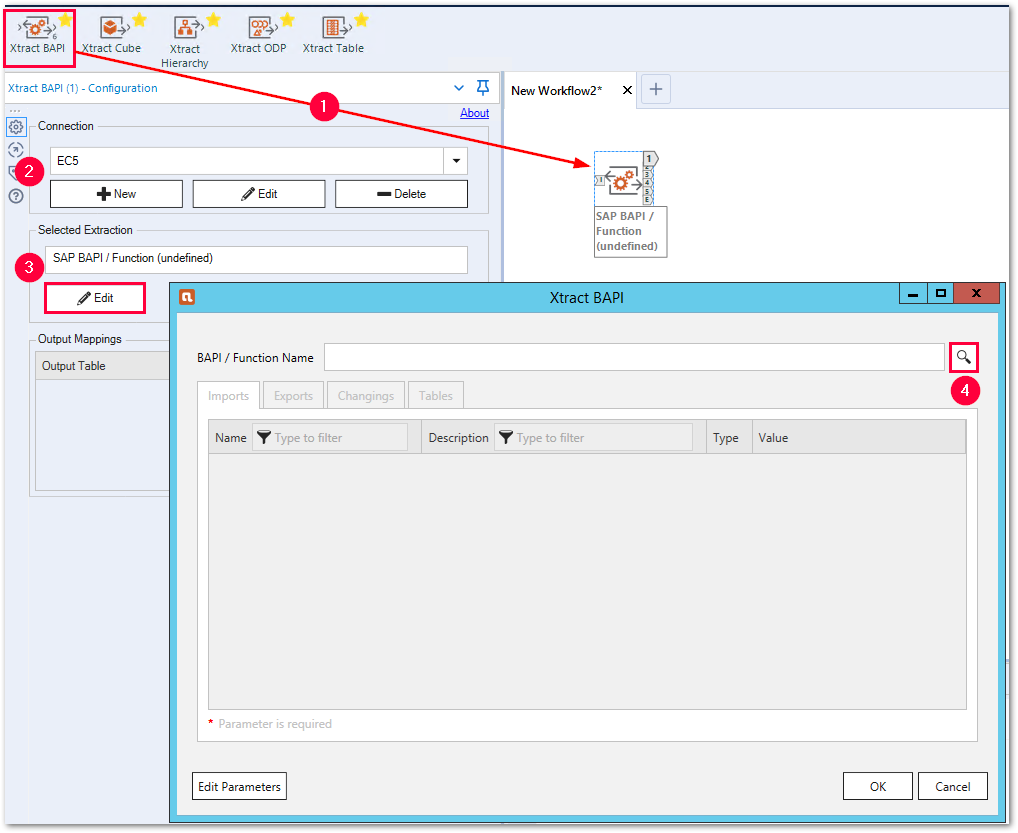
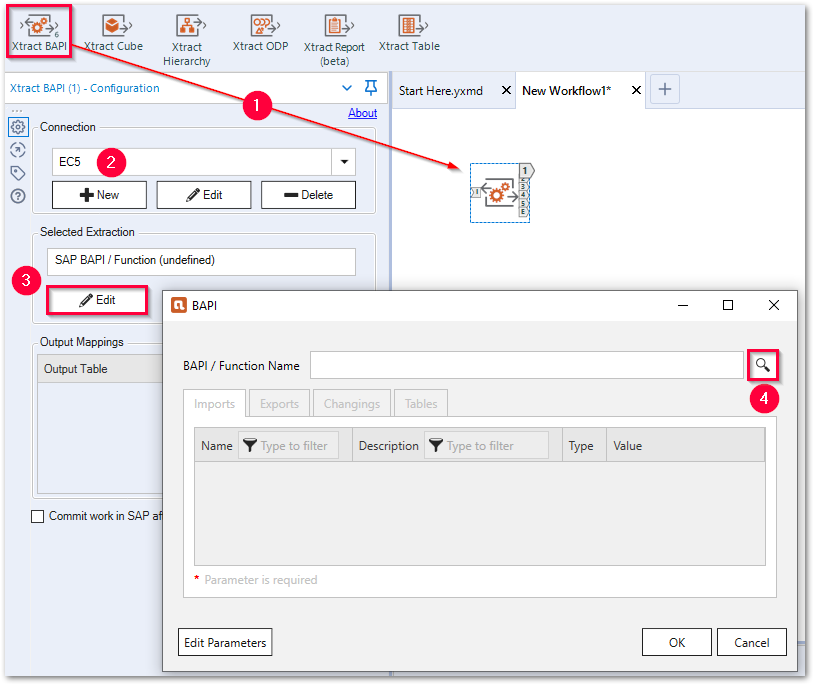
XfA

Changed region(s): [[0.0, 0.0, 1.0, 1.0]]

diff --git a/content/_en/xtract-for-alteryx/bapi/parameters.md b/content/_en/xtract-for-alteryx/bapi/parameters.md
@@ -1,78 +1,13 @@
 ---
 ref: xfa-bapi-param
 layout: page
-title: BAPI Parameters
-description: BAPI Parameters
+title: Parameters
+description: Parameters
 product: xtract-for-alteryx
 parent: bapi
 permalink: /:collection/:path
 weight: 2
 lang: en_GB
 ---
-### Parameter Types
-There are four parameter types of BAPIs: 
-- Imports
-- Exports
-- Changings
-- Tables
 
-![BAPI-Parameters](/img/content/xfa/BAPI-Parameters.png){:class="img-responsive"}
-
-All value fields marked with * are required fields and must be filled.
-
-Each Import, Export and Changings parameter can have one of the following representations:
-- a scalar field (e.g., characters, date, time, number, amount etc.)
-- a structure consisting of several components
-- a table - an array of structures of the same type
-
-{: .box-note }
-**Note:** See section [Setting Input and Output Values](./input-output-values) for more details.
-
-#### Structures
-
-A structure is a component of data objects of any data type with a set of keys. Each key has a single associated value.
-
-Structures are named as follows, depending on the data object type:
-- Flat structures contain components with elementary data types (e.g., char, integer, float) and assume scalar values.
-- Nested structures contain at least one substructure. All components and sub-components are flat.
-- Deep structures contain at least one deep component, such as table, at any nesting level.
-
-![Bapi-Structures](/img/content/xfa/BAPI-structure.png){:class="img-responsive"}
-
-
-### Imports
-**Imports** represent the input values sent from the client to SAP. Within the tab **Imports** you can define import parameters that can be presented as scalar values or structures. 
-![BAPI import parameters](/img/content/xfa/bapi_import1.png){:class="img-responsive"}
-To use the filtering function, enter text in the headers of the columns **Name** and **Description**. <br>
-
-
-### Exports
-**Exports** represent the output values sent from SAP back to the client after execution of a function module.
-Within the tab **Exports** you can define export parameters that can be presented as scalar values or structures. You can select an **Export** for an output by marking the checkbox in the output column. 
-![BAPI export parameters](/img/content/xfa/bapi_export.png){:class="img-responsive"}
-To use the filtering function, enter text in the headers of the columns **Name** and **Description**. <br>
-
- 
-### Changings
-**Changings** represents parameters that can be used for input and output. 
-Within the tab **Changing** you can define import and export parameters. Changing combines importing and exporting functions.
-
-
-### Tables
-
-**Tables** contain parameters in a table structure consisting of multiple rows. Tables can be used for input and output.
-
-Within the tab **Tables** you can define table parameters for importing and exporting into and from an SAP BAPI. Tables, in this case, represent a structure of multiple rows of the same data type.
-![BAPI table](/img/content/xfa/bapi_table.png){:class="img-responsive"}
-To use the filtering function, enter text in the headers of the columns **Name** and **Description**. <br>
-
-#### Navigating in the Tables tab
-
-{: .box-note }
-**Note:** Only **five** tables are available for parallel exporting.
-
-1. Mark the checkbox in the output column (1) to determine the table used for output.<br> 
-2. Drop-down lists (2) in the column value show the defined tables in your Alteryx workflow that can be used as an input table (see [Setting an input value](./input-output-values)). <br>
-3. Click **[X]** (3) to clear the values. <br> 
-4. Click **Search** (glasses symbol) (4) to display the metadata of the selected table including the name and the data type of all fields.
-![BAPI meta-data](/img/content/xfa/bapi_table_sap_fields.png){:class="img-responsive"}
+{% include _content/en/bapis-and-function-modules/parameters.md %}

diff --git a/content/_de/xtract-for-alteryx/bapis-und-funktionsbausteine/eine-bapi-quelle-definieren.md b/content/_de/xtract-for-alteryx/bapis-und-funktionsbausteine/eine-bapi-quelle-definieren.md
@@ -17,11 +17,35 @@ old_url: /Xtract-Universal-DE/default.aspx?pageid=eine-bapi-quelle-definieren
 ![BAPI component](/img/content/xfa/Define-bapi-component.png){:class="img-responsive"}
 
 ### Eine BAPI Extraktion finden
-4. Suchen nach **BAPI / Function Name** über das **[Lupensymbol]** (4). Sie können Platzhalter verwenden (*), wenn gewünscht. Das Fenster "Function Module Lookup" öffnet sich.
-5. Durch Eingabe eines Suchnamens in das Feld **BAPI / Function Name**, können Sie die Suche einschränken. Starten Sie die Suche duch klicken auf das **[Lupensymbol]** (5). Sie können Platzhalter verwenden (*), wenn gewünscht.<br>
+1. Suchen nach **BAPI / Function Name** über das **[Lupensymbol]** (4). Sie können Platzhalter verwenden (*), wenn gewünscht. Das Fenster "Function Module Lookup" öffnet sich.
+2. Durch Eingabe eines Suchnamens in das Feld **BAPI / Function Name**, können Sie die Suche einschränken. Starten Sie die Suche duch klicken auf das **[Lupensymbol]** (5). Sie können Platzhalter verwenden (*), wenn gewünscht.<br>
 ![Look-Up-Function-Module](/img/content/xfa/Look-Up-Function-Module.png){:class="img-responsive"}
-6. Wählen Sie ein Element aus der Liste aus (6). 
+3. Wählen Sie ein Element aus der Liste aus (6). 
 4. Klicken Sie auf **[OK]** (7), um die Auswahl zu bestätigen.
-5. Das Fenster "Xtract BAPI" zeigt die Parameter der ausgewählten BAPI.<br>
-Ein BAPI kann bis zu vier Paramtertypen haben: [Parametertypen](./skalare-parameter): Imports, Exports, Changings und Tables.
+
 ![BAPI-Parameters](/img/content/xfa/BAPI-Parameters.png){:class="img-responsive"}
+
+
+### Import, Export, Changings und Tables definieren
+
+Das Fenster "Xtract BAPI" zeigt die Parameter des ausgewählten BAPI.<br>
+Ein BAPI kann bis zu vier Paramtertypen haben: [Parametertypen](./parameter): Imports, Exports, Changings und Tables.
+
+{: .box-note }
+**Hinweis:** Sie können verschachtelte Parameter verwenden, z.B. Tabellen in Tabellen, Strukturen in Tabellen und Strukturen in Strukturen.<br>
+
+1. Geben Sie in **Imports** Eingabeparameter an, die an SAP gesendet werden, siehe [Import-Parameter](./parameter#import-parameter). <br>
+Sie können Skalarwerte (1) oder Strukturen (2) übergeben. Sie können außerdem dynamische Laufzeitparameter verwenden, siehe [Laufzeitparameter](./edit-runtime-parameters).<br>
+Parameter, die in SAP als Muss-Parameter ausgewiesen sind, sind mit einem roten * markiert.
+![Define-Bapi-Data-Source](/img/content/XU-BAPI-Parameters.png){:class="img-responsive"}
+2. Definieren Sie die Ausgabe von SAP-Werten in **Exports**, siehe [Export-Parameter](./parameter#export-parameter).<br>
+Aktivieren Sie die Checkbox neben den aufgelisteten Elementen, um sie der Ausgabe hinzuzufügen.<br>
+![BAPI export parameters](/img/content/Bapi-Exports-Edit.png){:class="img-responsive"}
+3. Optional: Falls verfügbar können Sie Ein- und Ausgabeparameter in **Changings** hinzufügen, siehe [Changings Parametrisierung](./parameter#changings-parameter).
+4. Fügen Sie in **Tables** Tabellen zur Ein-/Ausgabe hinzu, siehe [Tabellen Parametrisierung](./parameter#tables-parameter).<br>
+Prüfen Sie die Namen und Datentypen der Tabellenfelder, indem Sie auf das **[Brillensymbol]** unter **Type** klicken.
+Aktivieren Sie die Checkbox (2) neben den aufgelisteten Tabellen, um sie der Ausgabe hinzuzufügen.
+Bearbeiten Sie die Tabelle über das **[Stiftsymbol]** unter **Values** (3).
+![BAPI table](/img/content/Bapi-Table-Type.png){:class="img-responsive"}
+5. Bestätigen Sie Ihre Eingabe mit **[OK]**.
+

diff --git a/content/_en/xtract-for-alteryx/bapi/bapi-define.md b/content/_en/xtract-for-alteryx/bapi/bapi-define.md
@@ -12,16 +12,39 @@ lang: en_GB
 ### Using BAPI Component
 1. Drag and drop the BAPI component from the menu bar to the workflow canvas (1). The window "Configuration" opens.
 2. Fill in the connection data (2) similarly to the procedure described for the [Table component](../getting-started).
-3. Within **Selected Extraction**, click **[Edit]** (3). The window "Xtract BAPI" opens.
+3. Within **Selected Extraction**, click **[Edit]** (3). The window "BAPI" opens.
 ![BAPI component](/img/content/xfa/Define-bapi-component.png){:class="img-responsive"}
 
 ### Looking up a BAPI
-4. Search for **BAPI / Function Name** by using the **[magnifiying glass symbol]** (4), you can use wildcards (*), if needed. The window "Function Module Lookup" opens.
-5. By entering a search name in the **Function Name** field, you can narrow down the search. Start the search by using the **[magnifiying glass symbol]** (5). You can use wildcards (*), if needed.<br>
+1. Search for **BAPI / Function Name** by using the **[magnifiying glass symbol]** (4), you can use wildcards (*), if needed. The window "Function Module Lookup" opens.
+2. By entering a search name in the **Function Name** field, you can narrow down the search. Start the search by using the **[magnifiying glass symbol]** (5). You can use wildcards (*), if needed.<br>
 ![Look-Up-Function-Module](/img/content/xfa/Look-Up-Function-Module.png){:class="img-responsive"}
-6. Select an item from the list (6). 
+3. Select an item from the list (6). 
 4. Click **[OK]** (7) to confirm.
-5. The "Xtract BAPI" window displays the parameters of the selected BAPI.<br>
-BAPI can have up to four [parameter types](./parameters): Imports, Exports, Changings and Tables.
+
 ![BAPI-Parameters](/img/content/xfa/BAPI-Parameters.png){:class="img-responsive"}
+
+
+### Define Import, Export, Changings and Tables
+
+In the main BAPI Component window all parameters of the selected BAPI are displayed.
+BAPIs can have up to four parameter types: Imports, Exports, Changings and Tables.
+
+{: .box-note }
+**Note:** You can use of nested parameters, e.g., tables in tables, structures in tables and structures in structures.<br>
+
+1. Add input parameters to send to SAP in **Imports**, see [Import Parameters](./parameters#import-parameters). <br>
+You can enter scalar values (1) or structures (2). You can also use dynamic runtime parameters, see [Runtime Parameters](./edit-runtime-parameters).<br>
+Parameters defined as mandatory in SAP (transaction SE37) are marked with a red *. <br>
+![Define-Bapi-Data-Source](/img/content/XU-BAPI-Parameters.png){:class="img-responsive"}
+2. Define the output to receive from SAP in **Eports**, see [Export Parameters](./parameters#export-parameters). <br>
+Select output by activating the checkbox next to the items.<br>
+![BAPI export parameters](/img/content/Bapi-Exports-Edit.png){:class="img-responsive"}
+3. Optional: If available you can define input and output parameters in **Changings**, see [Changings Parameters](./parameters#changings-parameters).
+4. Add tables to the output or add table parameters as input in **Tables**, see [Table Parameters](./parameters#table-parameters). <br>
+Check the names and data types of the table's fields by clicking the **[glasses symbol]** under **Type** (1).
+Select output data by activating the checkbox next to the items (2).
+Edit tables via the **[pen icon]** under **Values** (3).
+![BAPI table](/img/content/Bapi-Table-Type.png){:class="img-responsive"}
+5. Click **[OK]** to confirm.
 

diff --git a/content/_en/xtract-for-alteryx/bapi/edit-runtime-parameters.md b/content/_en/xtract-for-alteryx/bapi/edit-runtime-parameters.md
@@ -1,10 +1,10 @@
 ---
-ref: xu-bapis-function-06
+ref: xfa-bapis-function-06
 layout: page
 title: Runtime Parameters
 description: Runtime Parameters
-product: xtract-universal
-parent: bapis-and-function-modules
+product: xtract-for-alteryx
+parent: bapi
 permalink: /:collection/:path
 weight: 6
 lang: en_GB
@@ -13,6 +13,3 @@ old_url: /Xtract-Universal-EN/default.aspx?pageid=report-extraction-settings
 
 
 {% include _content/en/bapis-and-function-modules/edit-runtime-parameters.md %}
-
-{: .box-note }
-**Note:** For information on how to run an extraction with runtime parameters, see [User-Defined Variables](../advanced-techniques/user-defined-variables).

diff --git a/_includes/_content/de/bapi/edit-runtime-parameters.md b/_includes/_content/de/bapi/edit-runtime-parameters.md
@@ -28,6 +28,3 @@ Wenn Sie Parameter angelegt haben, wird neben den Eingabefeldern ein Parametersy
 Klicken Sie auf die Icons, um zwischen der Eingabe fester Werte und der Eingabe von Parametern zu wechseln.  <br>
 3. Wählen Sie einen Laufzeitparameter aus der Drop-Down-Liste aus, um ihn dem Element zuzuweisen.
 ![Assign parameters](/img/content/BAPI-Runtime-Parameters.png){:class="img-responsive"}
-
-{: .box-note }
-**Hinweis:** Für Informationen bzgl. der Ausführung von Extraktionen mit Laufzeitparametern, siehe [benutzerdefinierten Variablen](../fortgeschrittene-techniken/benutzerdefinierte-variablen).

diff --git a/content/_de/xtract-for-alteryx/bapis-und-funktionsbausteine/edit-runtime-parameters.md b/content/_de/xtract-for-alteryx/bapis-und-funktionsbausteine/edit-runtime-parameters.md
@@ -3,7 +3,7 @@ ref: xu-bapis-function-06
 layout: page
 title: Laufzeitparameter
 description: Laufzeitparameter
-product: xtract-universal
+product: xtract-for-alteryx
 parent: bapis-und-funktionsbausteine
 permalink: /:collection/:path
 weight: 6
@@ -11,7 +11,3 @@ processstate: 5
 lang: de_DE
 ---
 {% include _content/de/bapi/edit-runtime-parameters.md %}
-
-
-{: .box-note }
-**Hinweis:** Für Informationen bzgl. der Ausführung von Extraktionen mit Laufzeitparametern, siehe [benutzerdefinierten Variablen](../fortgeschrittene-techniken/benutzerdefinierte-variablen).

diff --git a/_includes/_content/en/bapis-and-function-modules/edit-runtime-parameters.md b/_includes/_content/en/bapis-and-function-modules/edit-runtime-parameters.md
@@ -29,5 +29,3 @@ Clicking the icons switches between entering actual input values and entering pa
 3. Assign a parameter by selecting a runtime parameter from the dropdown-list.
 ![Assign parameters](/img/content/BAPI-Runtime-Parameters.png){:class="img-responsive"}
 
-{: .box-note }
-**Note:** For information on how to run an extraction with runtime parameters, see [User-Defined Variables](../advanced-techniques/user-defined-variables).

diff --git a/content/_en/board-connector/bapis-and-function-modules/edit-runtime-parameters.md b/content/_en/board-connector/bapis-and-function-modules/edit-runtime-parameters.md
@@ -13,3 +13,5 @@ old_url: /BOARD-Connector-EN/default.aspx?pageid=bapi-extraction-settings
 
 
 {% include _content/en/bapis-and-function-modules/edit-runtime-parameters.md %}
+{: .box-note }
+**Note:** For information on how to run an extraction with runtime parameters, see [User-Defined Variables](../advanced-techniques/user-defined-variables).

diff --git a/content/_de/board-connector/bapis-und-funktionsbausteine/edit-runtime-parameters.md b/content/_de/board-connector/bapis-und-funktionsbausteine/edit-runtime-parameters.md
@@ -11,3 +11,7 @@ lang: de_DE
 ---
 
 {% include _content/de/bapi/edit-runtime-parameters.md %}
+
+
+{: .box-note }
+**Hinweis:** Für Informationen bzgl. der Ausführung von Extraktionen mit Laufzeitparametern, siehe [benutzerdefinierten Variablen](../fortgeschrittene-techniken/benutzerdefinierte-variablen).

diff --git a/content/_de/xtract-for-alteryx/bapis-und-funktionsbausteine/parameter.md b/content/_de/xtract-for-alteryx/bapis-und-funktionsbausteine/parameter.md
@@ -11,4 +11,4 @@ lang: de_DE
 old_url: /Xtract-Universal-DE/default.aspx?pageid=skalare-parameter
 ---
 
-Dieser Abschnitt ist in Bearbeitung, Informationen erhalten Sie bis dahin auf der englischen Seite.
+{% include _content/de/bapi/parameters.md %}

diff --git a/content/_de/xtract-for-alteryx/bapis-und-funktionsbausteine/ausfuehrung.md b/content/_de/xtract-for-alteryx/bapis-und-funktionsbausteine/ausfuehrung.md
@@ -6,7 +6,7 @@ description: Ausführung
 product: xtract-for-alteryx
 parent: bapis-und-funktionsbausteine
 permalink: /:collection/:path
-weight: 4
+weight: 8
 lang: de_DE
 old_url: /Xtract-Universal-DE/default.aspx?pageid=ausfuehrung
 ---

diff --git a/content/_en/xtract-for-alteryx/bapi/run.md b/content/_en/xtract-for-alteryx/bapi/run.md
@@ -6,7 +6,7 @@ description: Example Use Case
 product: xtract-for-alteryx
 parent: bapi
 permalink: /:collection/:path
-weight: 4
+weight: 8
 lang: en_GB
 ---
 
